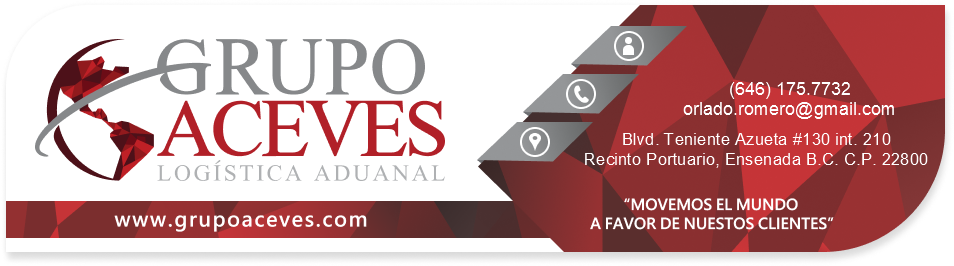
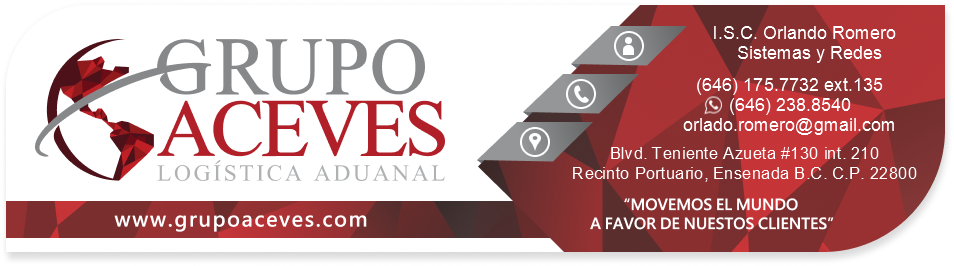
capitalizado de estudios

Changed region(s): [[0.5776, 0.2707, 0.9727, 0.6917], [0.76, 0.0902, 0.9423, 0.1504], [0.76, 0.1805, 0.9423, 0.2406]]

diff --git a/gui.py b/gui.py
@@ -37,17 +37,6 @@ def mostrar_vista_previa():
     context.select_font_face(font_path)
     context.set_source_rgb(255, 255, 255)  # Color del texto
     
-    if cellphone == "":
-        x_address_part1 = 622
-        y_address_part1 = 145
-        #x_address_part2 = 592
-        y_address_part2 = 165
-    else:        
-        x_address_part1 = 622
-        y_address_part1 = 165
-        #x_address_part2 = 592
-        y_address_part2 = 185
-    
     ################ NAME AND POSITION ##############################
     cuadro_x = 685
     cuadro_y = 16
@@ -84,7 +73,7 @@ def mostrar_vista_previa():
 
     context.move_to(position_x, position_y)
     context.show_text(position)
-    ##################################################################
+   
 
     ##########################TELEFONE, EXT, CELLPHONE########################################
 
@@ -93,11 +82,22 @@ def mostrar_vista_previa():
         cuadro_tel_y = 70
         cuadro_tel_ancho = 290
         cuadro_tel_alto = 50
+        #cuadro address
+        cuadro_addr_x = 580
+        cuadro_addr_y = 125
+        cuadro_addr_ancho = 330
+        cuadro_addr_alto = 50
     else:
         cuadro_tel_x = 645
         cuadro_tel_y = 70
         cuadro_tel_ancho = 290
         cuadro_tel_alto = 60
+        #cuadro address
+        cuadro_addr_x = 580
+        cuadro_addr_y = 135
+        cuadro_addr_ancho = 330
+        cuadro_addr_alto = 50
+
 
     telefone_extents = context.text_extents(telefone+ext)
     email_extents = context.text_extents(email)
@@ -144,23 +144,28 @@ def mostrar_vista_previa():
         context.show_text(email)
 
     ###################### ADDRESS ########################################################
-    #address_part1
     context.set_font_size(17)
-    context.move_to(x_address_part1, y_address_part1)
+    address_part1_extents = context.text_extents(address_part1)
+    address_part2_extents = context.text_extents(address_part2)
+
+    margen_vertical_address = (cuadro_addr_alto - (address_part1_extents.height + address_part2_extents.height)) / 2
+
+    address_part1_x = cuadro_addr_x + (cuadro_addr_ancho - address_part1_extents.width) / 2
+    address_part1_y = cuadro_addr_y + margen_vertical_address+ address_part1_extents.height
+
+    address_part2_x = cuadro_addr_x + (cuadro_addr_ancho - address_part2_extents.width) / 2
+    address_part2_y = cuadro_addr_y + margen_vertical_address+ address_part1_extents.height + 20
+
+    context.rectangle(cuadro_addr_x, cuadro_addr_y, cuadro_addr_ancho, cuadro_addr_alto)
+    context.set_source_rgba(0, 0, 0, 0)
+    context.set_source_rgb(255, 255, 255)
+    
+    
+    context.move_to(address_part1_x, address_part1_y)
     context.show_text(address_part1)
-    # Mide el ancho del texto previo
-    extents = context.text_extents(address_part1)
-    ancho_address_part1 = extents.width
-    # Mide el ancho del texto a centrar
-    extents = context.text_extents(address_part2)
-    ancho_address_part2 = extents.width
-    # Calcula la posición X para centrar el texto
-    x_address_part2 = (x_address_part1 + ancho_address_part1/2) - (ancho_address_part2/2)
-    #Dibujar
-    #address_part2
-    context.move_to(x_address_part2, y_address_part2)
+
+    context.move_to(address_part2_x, address_part2_y)
     context.show_text(address_part2)
-    #-------------------------------------------------
 
     # Guardar la imagen modificada
     surface.write_to_png("imagen_modificada.png")
@@ -251,7 +256,6 @@ def validate_email():
     else:
         error_label.configure(text="")
 
-
 #Guardar Imagen en carpeta de descargas con el nombre de la persona    
 user_homefolder = str(Path.home())   
 def save_result():
@@ -280,11 +284,18 @@ def custom_title(s):
     no_capitalize = ["y", "e", "o", "u", "de"]
     words = s.split(' ')
     for i in range(len(words)):
-        if words[i].lower() not in no_capitalize or i == 0:  # Convertimos la palabra a minúsculas antes de verificar
+        if words[i].lower() not in no_capitalize or i == 0:
             words[i] = words[i].capitalize()
         else:
-            words[i] = words[i].lower()  # Convertimos la palabra a minúsculas si está en la lista
+            words[i] = words[i].lower()
+
+        if '.' in words[i]:
+            words[i] = words[i].upper()
+            if i < len(words) - 1:
+                words[i + 1] = words[i + 1].capitalize()
+
     return ' '.join(words)
+
 
 def format_cellphone(cellphone):
     digits = ''.join(filter(str.isdigit, cellphone))
